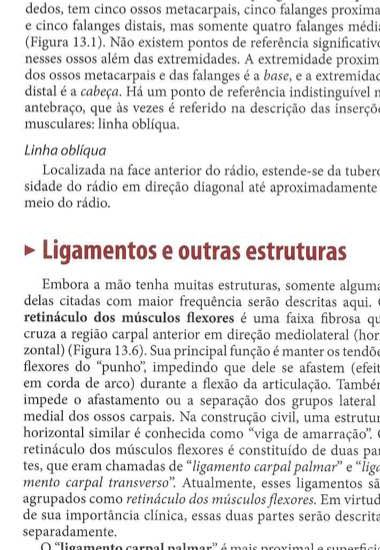
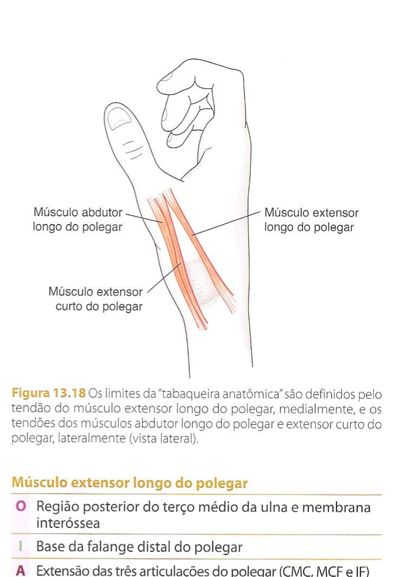
fix: map ALL 45 questions with imageDescription to cropped figures
- Added 19 previously unmapped questions (c1q02, c1q12, c4q07, c4q12, etc.)
- Fixed c13q17 to correct tabaqueira anatômica figure (page 158)
- Added c13q11 preensão figures from page 167
- Total: 45 cropped images, zero unmapped questions

diff --git a/src/data/imageMapping.ts b/src/data/imageMapping.ts
@@ -11,41 +11,60 @@ const BASE = import.meta.env.BASE_URL + "images/crops";
 export const IMAGE_MAP: Record<string, string> = {
   // Cap 1 – Informações Básicas
   "c1q01": `${BASE}/c1q01.jpg`, // Figura 3.14 – planos do corpo
+  "c1q02": `${BASE}/c1q02.jpg`, // Figura 3.14 – planos do corpo
   "c1q03": `${BASE}/c1q03.jpg`, // Figura 3.15 – centro de gravidade
+  "c1q12": `${BASE}/c1q12.jpg`, // Figura 3.15 – centro de gravidade
 
   // Cap 4 – Artrocinemática
   "c4q04": `${BASE}/c4q04.jpg`, // Figuras 4.3/4.4 – rolamento e deslizamento
   "c4q05": `${BASE}/c4q05.jpg`, // Figura 4.7 – regra convexo
+  "c4q07": `${BASE}/c4q07.jpg`, // Figura 4.7 – regra convexo-côncavo
   "c4q08": `${BASE}/c4q08.jpg`, // Figura 4.6 – regra côncavo
   "c4q09": `${BASE}/c4q09.jpg`, // Tabela 4.1 – posições articulares
+  "c4q12": `${BASE}/c4q12.jpg`, // Tabela 4.1 – tração articular
   "c4q13": `${BASE}/c4q13.jpg`, // Figura 5.1 – inserções do bíceps braquial
 
   // Cap 5 – Sistema Muscular
+  "c5q01": `${BASE}/c5q01.jpg`, // Figura 5.1 – inserções musculares
   "c5q02": `${BASE}/c5q02.jpg`, // Figura 5.4 – orientação das fibras musculares
+  "c5q04": `${BASE}/c5q04.jpg`, // Figura 5.4 – fibras musculares (fusiforme)
   "c5q05": `${BASE}/c5q05.jpg`, // Figura 5.8 – insuficiência passiva
+  "c5q06": `${BASE}/c5q06.jpg`, // Contração isométrica
   "c5q07": `${BASE}/c5q07.jpg`, // Figura 5.13 – cadeia cinética fechada
+  "c5q16": `${BASE}/c5q16.jpg`, // Figura 5.13 – cadeia cinética
   "c5q17": `${BASE}/c5q17.jpg`, // Figura 10.2 – movimentos do ombro
 
   // Cap 10 – Articulação do Ombro
+  "c10q02": `${BASE}/c10q02.jpg`, // Figura 10.2 – movimentos do ombro
   "c10q03": `${BASE}/c10q03.jpg`, // Figura 10.3 – escápula esquerda
   "c10q04": `${BASE}/c10q04.jpg`, // Figura 10.8 – três partes do deltoide
+  "c10q05": `${BASE}/c10q05.jpg`, // Figura 10.8 – deltoide
   "c10q06": `${BASE}/c10q06.jpg`, // Figura 10.4 – úmero esquerdo
+  "c10q10": `${BASE}/c10q10.jpg`, // Figura 10.4 – úmero (tubérculo maior)
   "c10q11": `${BASE}/c10q11.jpg`, // Figuras 10.5/10.7 – ligamentos do ombro
+  "c10q14": `${BASE}/c10q14.jpg`, // Figuras 10.5/10.7 – ligamentos do ombro
   "c10q15": `${BASE}/c10q15.jpg`, // Figura 11.4 – pronação e supinação
 
   // Cap 11 – Articulação do Cotovelo
   "c11q04": `${BASE}/c11q04.jpg`, // Figura 11.5 – rádio em torno da ulna
   "c11q05": `${BASE}/c11q05.jpg`, // Figura 11.17 – tríceps braquial
+  "c11q07": `${BASE}/c11q07.jpg`, // Figura 11.17 – tríceps (extensão cotovelo)
   "c11q08": `${BASE}/c11q08.jpg`, // Figura 11.8 – úmero com epicôndilos
+  "c11q11": `${BASE}/c11q11.jpg`, // Figura 11.8 – úmero (olécrano)
   "c11q12": `${BASE}/c11q12.jpg`, // Figura 12.1 – articulações do punho
 
   // Cap 12 – Articulação Radiocarpal
+  "c12q03": `${BASE}/c12q03.jpg`, // Figura 12.1 – ossos carpais
   "c12q04": `${BASE}/c12q04.jpg`, // Figura 12.2 – movimentos radiocarpal
 
   // Cap 13 – Mão
+  "c13q02": `${BASE}/c13q02.jpg`, // Figura 13.2 – articulação selar CMC
   "c13q03": `${BASE}/c13q03.jpg`, // Figura 13.1 – articulações dos dedos
   "c13q04": `${BASE}/c13q04.jpg`, // Figura 13.3 – movimentos CMC do polegar
+  "c13q11": `${BASE}/c13q11.jpg`, // Figuras 13.35/13.37 – preensões de força
   "c13q12": `${BASE}/c13q12.jpg`, // Figura 13.6 – retináculo dos flexores
-  "c13q17": `${BASE}/c13q17.jpg`, // Figura 13.9 – expansão dos extensores
+  "c13q16": `${BASE}/c13q16.jpg`, // Figura 13.6 – retináculo dos flexores
+  "c13q17": `${BASE}/c13q17.jpg`, // Figura 13.18 – tabaqueira anatômica
   "c13q18": `${BASE}/c13q18.jpg`, // Figura 13.10 – arcos da palma da mão
+  "c13q19": `${BASE}/c13q19.jpg`, // Figura 13.10 – arcos da palma da mão
 };
